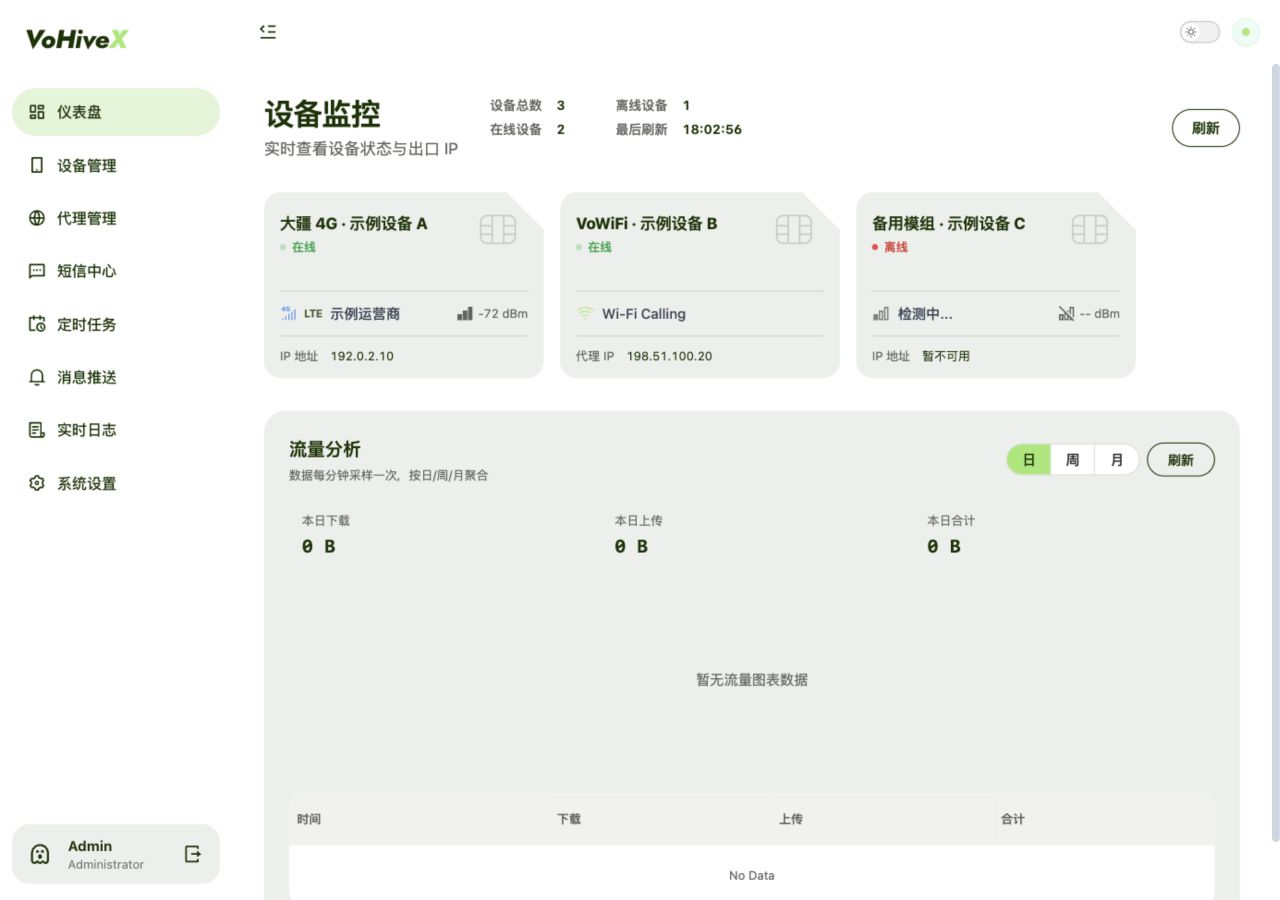
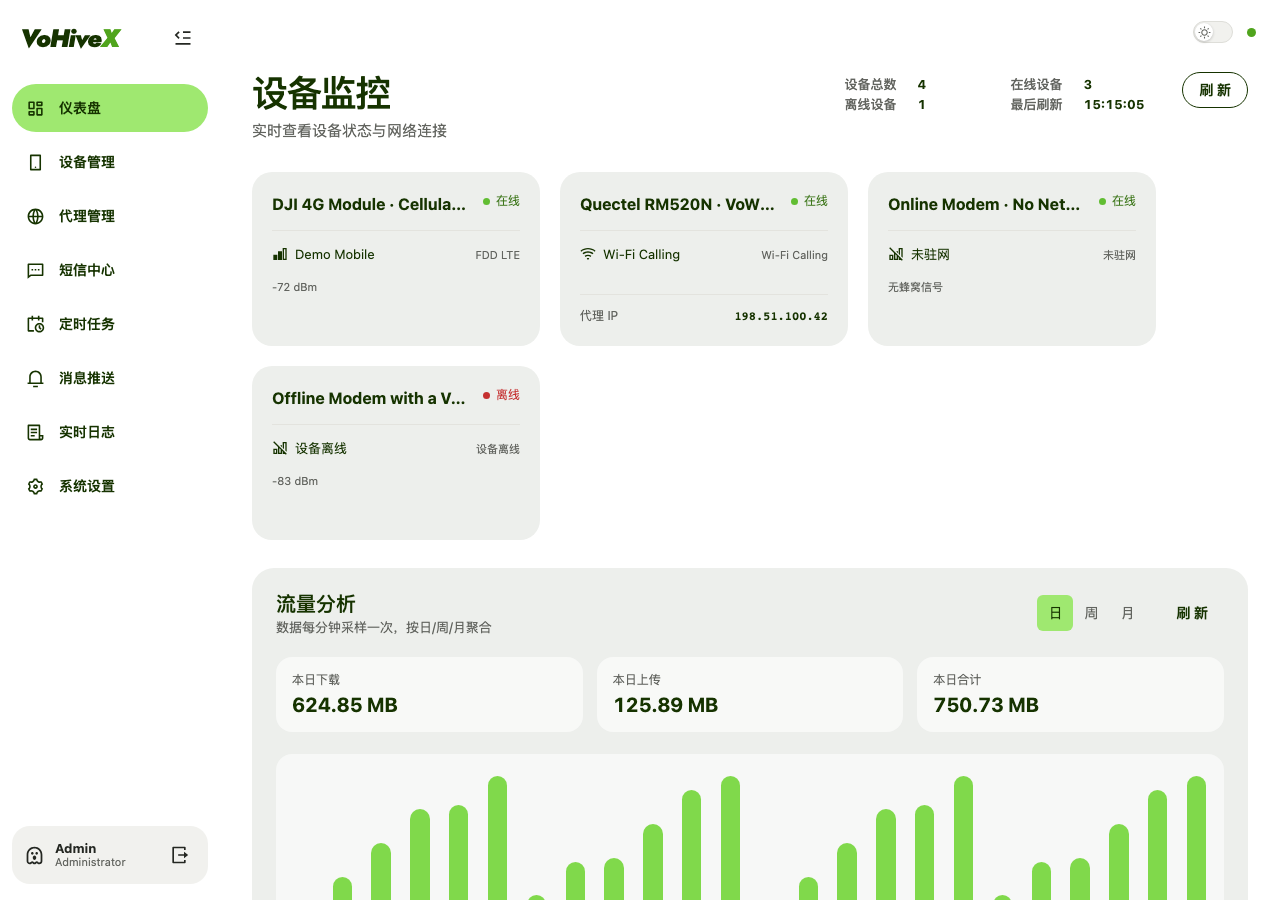
docs: refresh README and demo screenshots [skip ci]

diff --git a/web/mock/demoApi.ts b/web/mock/demoApi.ts
@@ -3,15 +3,15 @@ import type { IncomingMessage, ServerResponse } from 'node:http'
 
 const now = () => Math.floor(Date.now() / 1000)
 const devices = [
-  { id: 'DJI26123', name: 'DJI 4G Module · Cellular Demo', running: true, healthy: true, operator: 'Demo Mobile', network_mode: 'LTE', network_duplex: 'FDD', signal_dbm: -72, vowifi_active: false, vowifi_enabled: false, network_enabled: true, network_connected: true, public_ip: '203.0.113.18', private_ip: '10.10.0.8', private_ipv6: '2001:db8:10::8', interface: 'wwan0', imei: '860000000000001', imsi: '460001234567890', iccid: '8986000000000000001', msisdn: '+86 138 0000 1001', local_phone: '+86 138 0000 1001', active_esim_profile_name: 'Demo Profile', modem: { imei: '860000000000001', imsi: '460001234567890', iccid: '8986000000000000001', firmware: 'Demo 1.0', operator: 'Demo Mobile', network_mode: 'LTE', network_duplex: 'FDD', signal_dbm: -72, signal_rsrp: -98, signal_rsrq: -10, signal_sinr: 18, radio_band: 'B3', radio_channel: 1650, reg_status_text: '已注册', native_spn: 'Demo Mobile', native_mcc: '310', native_mnc: '260' }, vowifi_runtime: { sim_ready: true, access_ready: true, tunnel_ready: false, ims_ready: false, sms_ready: true, dataplane_mode: 'cellular', last_reason: '蜂窝网络已连接', last_error_class: '' } },
-  { id: 'RM520N-DEMO', name: 'Quectel RM520N · VoWiFi Demo', running: true, healthy: true, operator: 'Example Telecom', network_mode: '5G NSA', network_duplex: 'TDD', signal_dbm: -88, vowifi_active: true, vowifi_enabled: true, network_enabled: false, network_connected: false, interface: 'wwan1', imei: '860000000000002', imsi: '460031234567890', iccid: '8986030000000000002', msisdn: '+86 139 0000 1002', local_phone: '+86 139 0000 1002', active_esim_profile_name: 'Travel eSIM', modem: { imei: '860000000000002', imsi: '460031234567890', iccid: '8986030000000000002', firmware: 'Demo 2.0', operator: 'Example Telecom', network_mode: '5G NSA', network_duplex: 'TDD', signal_dbm: -88, signal_rsrp: -108, signal_rsrq: -13, signal_sinr: 9, nr5g_signal_sinr: 12, radio_band: 'n78', radio_channel: 633984, reg_status_text: 'VoWiFi', native_mcc: '440', native_mnc: '10', opl: [{ plmn: '44010', pnn_record: 1 }], pnn: [{ record: 1, full_name: 'Example Telecom' }] }, vowifi_runtime: { sim_ready: true, access_ready: true, tunnel_ready: true, ims_ready: true, sms_ready: true, dataplane_mode: 'vowifi', last_reason: 'IMS 已注册', last_error_class: '' } },
-  { id: 'NO-NETWORK-DEMO', name: 'Online Modem · No Network or Data', running: true, healthy: true, operator: 'Stale Carrier', network_mode: 'LTE', network_duplex: 'FDD', signal_dbm: -999, vowifi_active: false, vowifi_enabled: false, network_connected: false, interface: 'wwan2', imei: '860000000000003', imsi: '460011234567890', iccid: '8986010000000000003', msisdn: '+86 137 0000 1003', modem: { native_spn: 'Example MVNO', native_mcc: '460', native_mnc: '01' } },
+  { id: 'DJI26123', name: 'DJI 4G Module · Cellular Demo', running: true, healthy: true, operator: 'Demo Mobile', network_mode: 'LTE', network_duplex: 'FDD', signal_dbm: -72, vowifi_active: false, vowifi_enabled: false, network_enabled: true, network_connected: true, public_ip: '203.0.113.18', private_ip: '10.10.0.8', private_ipv6: '2001:db8:10::8', interface: 'wwan0', imei: '860000000000001', imsi: '460001234567890', iccid: '8986000000000000001', msisdn: '+1 202-555-0100', local_phone: '+1 202-555-0100', active_esim_profile_name: 'Demo Profile', modem: { imei: '860000000000001', imsi: '460001234567890', iccid: '8986000000000000001', firmware: 'Demo 1.0', operator: 'Demo Mobile', network_mode: 'LTE', network_duplex: 'FDD', signal_dbm: -72, signal_rsrp: -98, signal_rsrq: -10, signal_sinr: 18, radio_band: 'B3', radio_channel: 1650, reg_status_text: '已注册', native_spn: 'Demo Mobile', native_mcc: '310', native_mnc: '260' }, vowifi_runtime: { sim_ready: true, access_ready: true, tunnel_ready: false, ims_ready: false, sms_ready: true, dataplane_mode: 'cellular', last_reason: '蜂窝网络已连接', last_error_class: '' } },
+  { id: 'RM520N-DEMO', name: 'Quectel RM520N · VoWiFi Demo', running: true, healthy: true, operator: 'Example Telecom', network_mode: '5G NSA', network_duplex: 'TDD', signal_dbm: -88, vowifi_active: true, vowifi_enabled: true, network_enabled: false, network_connected: false, interface: 'wwan1', imei: '860000000000002', imsi: '460031234567890', iccid: '8986030000000000002', msisdn: '+1 202-555-0102', local_phone: '+1 202-555-0102', active_esim_profile_name: 'Travel eSIM', modem: { imei: '860000000000002', imsi: '460031234567890', iccid: '8986030000000000002', firmware: 'Demo 2.0', operator: 'Example Telecom', network_mode: '5G NSA', network_duplex: 'TDD', signal_dbm: -88, signal_rsrp: -108, signal_rsrq: -13, signal_sinr: 9, nr5g_signal_sinr: 12, radio_band: 'n78', radio_channel: 633984, reg_status_text: 'VoWiFi', native_mcc: '440', native_mnc: '10', opl: [{ plmn: '44010', pnn_record: 1 }], pnn: [{ record: 1, full_name: 'Example Telecom' }] }, vowifi_runtime: { sim_ready: true, access_ready: true, tunnel_ready: true, ims_ready: true, sms_ready: true, dataplane_mode: 'vowifi', last_reason: 'IMS 已注册', last_error_class: '' } },
+  { id: 'NO-NETWORK-DEMO', name: 'Online Modem · No Network or Data', running: true, healthy: true, operator: 'Stale Carrier', network_mode: 'LTE', network_duplex: 'FDD', signal_dbm: -999, vowifi_active: false, vowifi_enabled: false, network_connected: false, interface: 'wwan2', imei: '860000000000003', imsi: '460011234567890', iccid: '8986010000000000003', msisdn: '+1 202-555-0103', modem: { native_spn: 'Example MVNO', native_mcc: '460', native_mnc: '01' } },
   { id: 'OFFLINE-DEMO', name: 'Offline Modem with a Very Long Demonstration Name', running: false, healthy: false, operator: 'Stale Carrier', network_mode: 'LTE', signal_dbm: -83, vowifi_active: false, vowifi_enabled: false, network_connected: false, public_ip: '198.51.100.199', interface: 'wwan3', imei: '860000000000004', iccid: '8986010000000000004' },
 ]
 const contacts = [
-  { peer: '+86 188 0000 2001', device_id: 'DJI26123', device_name: devices[0].name, imsi: devices[0].imsi, local_phone: devices[0].msisdn, last_content: 'Your scheduled test message was received.', last_timestamp: new Date(Date.now() - 90_000).toISOString(), unread_count: 1 },
-  { peer: '10086', device_id: 'DJI26123', device_name: devices[0].name, imsi: devices[0].imsi, local_phone: devices[0].msisdn, last_content: 'Demo account balance notification', last_timestamp: new Date(Date.now() - 3_600_000).toISOString(), unread_count: 0 },
-  ...Array.from({ length: 10 }, (_, index) => ({ peer: `+86 166 0000 ${String(3000 + index)}`, device_id: 'DJI26123', device_name: devices[0].name, imsi: devices[0].imsi, local_phone: devices[0].msisdn, last_content: `Example conversation ${index + 1}`, last_timestamp: new Date(Date.now() - (index + 2) * 7_200_000).toISOString(), unread_count: index % 3 === 0 ? 1 : 0 })),
+  { peer: '+1 202-555-0110', device_id: 'DJI26123', device_name: devices[0].name, imsi: devices[0].imsi, local_phone: devices[0].msisdn, last_content: 'Your scheduled test message was received.', last_timestamp: new Date(Date.now() - 90_000).toISOString(), unread_count: 1 },
+  { peer: 'Demo Service', device_id: 'DJI26123', device_name: devices[0].name, imsi: devices[0].imsi, local_phone: devices[0].msisdn, last_content: 'Demo account balance notification', last_timestamp: new Date(Date.now() - 3_600_000).toISOString(), unread_count: 0 },
+  ...Array.from({ length: 10 }, (_, index) => ({ peer: `+1 202-555-${String(111 + index).padStart(4, '0')}`, device_id: 'DJI26123', device_name: devices[0].name, imsi: devices[0].imsi, local_phone: devices[0].msisdn, last_content: `Example conversation ${index + 1}`, last_timestamp: new Date(Date.now() - (index + 2) * 7_200_000).toISOString(), unread_count: index % 3 === 0 ? 1 : 0 })),
 ]
 const sms = [
   { id: 1, peer: contacts[0].peer, content: 'This is a fictional message used only for local UI testing.', timestamp: new Date(Date.now() - 600_000).toISOString(), type: 1, status: 0 },
@@ -19,8 +19,8 @@ const sms = [
   { id: 3, peer: contacts[0].peer, content: 'Received, thank you.', timestamp: new Date(Date.now() - 90_000).toISOString(), type: 1, status: 0 },
 ]
 const schedules = [
-  { id: 1, version: 2, name: 'Daily demo reminder', device_id: 'DJI26123', phone: '+86 188 0000 2001', message: 'This is a fictional scheduled SMS.', mode: 'interval', first_run: now() - 86400, interval_seconds: 86400, state: 'active', next_run: now() + 3600, last_run: now() - 82800, run_count: 3, last_result: 'Submitted' },
-  { id: 2, version: 1, name: 'One-time test', device_id: 'RM520N-DEMO', phone: '+86 166 0000 3001', message: 'Paused sample task.', mode: 'once', first_run: now() + 7200, interval_seconds: 0, state: 'paused', next_run: now() + 7200, run_count: 0, last_result: 'Waiting' },
+  { id: 1, version: 2, name: 'Daily demo reminder', device_id: 'DJI26123', phone: '+1 202-555-0110', message: 'This is a fictional scheduled SMS.', mode: 'interval', first_run: now() - 86400, interval_seconds: 86400, state: 'active', next_run: now() + 3600, last_run: now() - 82800, run_count: 3, last_result: 'Submitted' },
+  { id: 2, version: 1, name: 'One-time test', device_id: 'RM520N-DEMO', phone: '+1 202-555-0111', message: 'Paused sample task.', mode: 'once', first_run: now() + 7200, interval_seconds: 0, state: 'paused', next_run: now() + 7200, run_count: 0, last_result: 'Waiting' },
 ]
 const sources = [{ id: 'builtin', name: '订阅节点 · 内置代理', kind: 'built_in', count: 1, updated: now() - 300 }, { id: 'demo-sub', name: 'Demo Subscription', kind: 'subscription', count: 4, updated: now() - 1800 }]
 const nodes = [{ id: 'builtin-socks', source_id: 'builtin', name: 'Socks5 · 127.0.0.1:17890', type: 'socks5' }, ...['Tokyo Demo', 'Singapore Demo', 'Frankfurt Demo', 'Los Angeles Demo'].map((name, index) => ({ id: `node-${index}`, source_id: 'demo-sub', name, type: index % 2 ? 'vmess' : 'trojan' }))]
@@ -68,7 +68,7 @@ export function demoApi(): Plugin {
       if (/^\/api\/devices\/[^/]+\/esim\/notifications$/.test(path)) return json(response, 200, { items: [{ id: 'demo-note', type: 'Profile installation', message: 'A fictional notification used only for the local demonstration.' }] })
       if (/^\/api\/devices\/[^/]+\/esim\/profiles\/[^/]+$/.test(path) && method === 'PATCH') { const data = await body(request); demoEsimProfileName = String(data.name || demoEsimProfileName); return json(response, 200, { ok: true }) }
       if (/^\/api\/devices\/[^/]+\/esim\/profiles\/[^/]+$/.test(path) && method === 'DELETE') { demoEsimProfileDeleted = true; return json(response, 200, { ok: true }) }
-      if (/^\/api\/devices\/[^/]+\/esim$/.test(path)) return json(response, 200, { chip_info: { sku_name: 'Demo eUICC', firmware: '1.0.0', eids: [{ eid: '89049032000000000000000000000001', aid: 'A0000005591010FFFFFFFF8900000100', manufacturer: 'Demo Semiconductor', free_nvram: '1.8 MB', free_nvram_bytes: 1_887_436 }] }, profiles: [{ name: 'Demo eUICC', eid: '89049032000000000000000000000001', aid_hex: 'A0000005591010FFFFFFFF8900000100', profiles: demoEsimProfileDeleted ? [] : [{ iccid: '8986000000000001001', name: demoEsimProfileName, phone_number: '+86 138 0000 1001', provider_name: 'Example Mobile', state: 1, state_text: '已启用' }] }] })
+      if (/^\/api\/devices\/[^/]+\/esim$/.test(path)) return json(response, 200, { chip_info: { sku_name: 'Demo eUICC', firmware: '1.0.0', eids: [{ eid: '89049032000000000000000000000001', aid: 'A0000005591010FFFFFFFF8900000100', manufacturer: 'Demo Semiconductor', free_nvram: '1.8 MB', free_nvram_bytes: 1_887_436 }] }, profiles: [{ name: 'Demo eUICC', eid: '89049032000000000000000000000001', aid_hex: 'A0000005591010FFFFFFFF8900000100', profiles: demoEsimProfileDeleted ? [] : [{ iccid: '8986000000000001001', name: demoEsimProfileName, phone_number: '+1 202-555-0100', provider_name: 'Example Mobile', state: 1, state_text: '已启用' }] }] })
       if (/^\/api\/cards\/.+\/policy$/.test(path)) return json(response, 200, { source: 'local', ip_version: 'v4v6', apn: 'internet', network_enabled: true, vowifi_enabled: true, airplane_enabled: false })
       if (path === '/api/managed-proxy' && method === 'GET') return json(response, 200, managed)
       if (/^\/api\/managed-proxy\//.test(path) && path !== '/api/managed-proxy/public-ip') { const data = await body(request); if (path.endsWith('/pause')) managed = { ...managed, enabled: false, running: false, version: managed.version + 1 }; if (path.endsWith('/select')) managed = { ...managed, enabled: true, running: true, selected: data.node_id || managed.selected, version: managed.version + 1 }; if (path.endsWith('/test')) return json(response, 200, { delay_ms: 42 + Number(String(data.node_id || '').replace(/\D/g, '') || 0) * 17 }); return json(response, 200, managed) }

diff --git a/README.md b/README.md
@@ -1,74 +1,80 @@
 ![VoHiveX personal modem management and test platform](docs/images/vohivex-banner.png)
 
+<p align="center">
+  <a href="https://github.com/iniwex5/vohive">VoHive</a> ·
+  <a href="https://go.dev/">Go</a> ·
+  <a href="https://github.com/MetaCubeX/mihomo">Mihomo</a> ·
+  <a href="https://github.com/vuejs/core">Vue 3</a> ·
+  <a href="https://github.com/vitejs/vite">Vite</a> ·
+  <a href="https://github.com/vuejs/pinia">Pinia</a> ·
+  <a href="https://github.com/antdv-next/antdv-next">Antdv Next</a> ·
+  <a href="https://github.com/Remix-Design/RemixIcon">Remix Icon</a>
+</p>
+
 # VoHiveX
 
-**Original author:** [iniwex5](https://github.com/iniwex5) · Original project: [VoHive](https://github.com/iniwex5/vohive)
+**Original project:** [VoHive](https://github.com/iniwex5/vohive) by [iniwex5](https://github.com/iniwex5)<br>
+**VoHiveX author:** [NXN-MAX](https://github.com/NXN-MAX) · **Version:** 2.1.4
 
-**VoHiveX author:** [NXN-MAX](https://github.com/NXN-MAX) · **Version: 2.1.4**
+VoHiveX is a personal modem management and testing platform derived from VoHive. It adds DJI 4G module compatibility, scheduled SMS, Mihomo subscription and node management, eSIM activation-code recognition, SMS archives, notifications, and a responsive Vue interface backed by a Go gateway.
 
-VoHiveX extends VoHive with DJI first and second generation 4G modem compatibility, scheduled SMS, a built-in Mihomo proxy manager, SMS archive tools, a redesigned responsive interface, and a Go management gateway. The existing modem core, configuration, and persistent data formats remain compatible.
+## Highlights
 
-## Acceptable use
+### DJI 4G module compatibility
 
-> [!CAUTION]
-> **Commercial use is strictly prohibited. VoHiveX is for personal research, learning, and testing on devices that you own.**
->
-> Use only personal phone numbers that you legally control. Do not use VoHiveX for verification-code collection, number rental, unsolicited or bulk messaging, fraud, unlawful proxy services, or any activity that violates local law or carrier terms.
-
-The original project and third-party components keep their respective licenses. VoHiveX additions use the [Personal Non-Commercial License](LICENSE), which is not an OSI-approved open-source license.
-
-## Main features
-
-### DJI modem compatibility
-
-- First generation DJI 4G modules using USB ID `2ca3:4006` are matched at runtime without reflashing or changing the USB ID.
-- The existing host `option` and `qmi_wwan` drivers provide the AT serial and QMI interfaces.
-- Second generation devices use the standard QMI or MBIM detection path. Hardware and firmware combinations not tested by this project may still require an additional mapping.
-- Driver adaptation runs inside the VoHiveX container. It does not replace the host kernel or install a host driver package.
+- Supports DJI first-generation 4G modules that expose USB ID `2ca3:4006`.
+- Keeps the original DJI USB ID. Reflashing, rewriting the USB ID, and permanent host-driver modification are not required.
+- Matches the device to the existing Linux `option` and `qmi_wwan` drivers at runtime, exposing AT serial and QMI interfaces to the container.
+- Supports second-generation modules through compatible QMI or MBIM paths when provided by the module firmware and host kernel.
 
 ### Scheduled SMS
 
-- Send once at a chosen date and time, or repeat at a day, hour, minute, and second interval.
-- Create, edit, delete, start, and pause tasks, and review execution history and the next run time.
-- Notify enabled Telegram, Feishu, QQ, Bark, Email, Pushplus, and Webhook channels after execution and after a delivery result becomes available.
-- Missed tasks are skipped after downtime. Failed or ambiguous sends are paused and are never retried automatically.
+- Send once at a specified date and time or repeat by day, hour, minute, and second intervals.
+- Create, edit, delete, start, pause, and inspect tasks, including the next run time and execution history.
+- Newly created or edited tasks remain paused until explicitly started. Missed runs are skipped instead of being sent in a burst.
+- Execution and delivery results can be forwarded through enabled Telegram, Feishu, QQ, Bark, Email, Pushplus, and Webhook channels.
 
-### Mihomo proxy management
+### Subscription and node management
 
-- Manage subscriptions and nodes, VoWiFi roaming proxies, and local outbound proxies from one module.
-- Import multiple HTTPS subscriptions, Clash YAML, and common share links; select nodes and test HTTPS latency.
-- QR images are decoded in the browser and are discarded without upload or caching.
-- The fixed `Subscription node · Built-in proxy` entry uses SOCKS5 at `127.0.0.1:17890`.
-- Disabling a proxy makes associated country rules fall back to direct access.
+- Runs Mihomo inside the VoHiveX container and exposes a fixed built-in SOCKS5 endpoint at `127.0.0.1:17890`.
+- Supports multiple HTTPS subscriptions, Clash YAML, and common proxy share links.
+- Provides collapsible subscription lists, node selection, latency testing, VoWiFi country rules, and local outbound proxy instances.
+- Proxy QR images are decoded in the browser and discarded immediately after recognition.
 
-### Interface and administration
+### eSIM activation-code recognition
 
-- Responsive light and black dark themes, Remix Icon controls, SIM-card device tiles, and IPv4/IPv6 display.
-- Conversation-based SMS center with import, export, selection, bulk state changes, and archive deduplication.
-- eSIM activation-code parsing from pasted text, clipboard images, or JPG, JPEG, PNG, and WebP files. Profile installation starts only after the user presses the download button.
-- Username and password settings, local Swagger UI at `/api/docs`, system/build/driver/proxy information, `/healthz`, and Prometheus-compatible `/metrics`.
+- Recognizes activation codes from QR images, clipboard images, uploaded JPG/JPEG/PNG/WebP files, or a directly entered `LPA:1` link.
+- Parses the SM-DP+ address, Matching ID, and optional confirmation code into the download form.
+- Recognition only fills the form. No profile is written until the user reviews the values and presses **Start download**.
+- Includes eUICC information, installed profiles, remarks, switching, and deletion where supported by the module and card.
 
-## Go runtime
+### Device and message management
 
-The management gateway, reverse proxy, scheduler, SMS archive, account settings, Mihomo lifecycle, health checks, and metrics are implemented in Go. The container no longer installs Python or PyYAML. Existing `config.yaml`, scheduler SQLite data, imported SMS archives, proxy subscriptions, and web assets are reused during an upgrade.
+- Provides device discovery, radio status, AT and USSD terminals, SIM/eSIM information, card policies, VoWiFi status, and live logs.
+- Includes a three-column SMS center with conversation search, unread state, delivery status, multi-select actions, and CSV/TXT/HTML/XML import and export.
+- Offers a local Swagger UI at `/api/docs`, health checks at `/healthz`, and Prometheus-compatible metrics at `/metrics`.
 
-The bundled legacy modem core was already a Go executable but its upstream source is not present in this repository. For that reason, the full container remains available on the three architectures for which a compatible modem core exists.
+## Supported architectures and modem paths
 
-| Deliverable | amd64 | arm64 | aarch64 | armv7 | 386 |
-| --- | --- | --- | --- | --- | --- |
-| Full Docker image | Yes | Yes | Alias of arm64 | Yes | No |
-| Go gateway binary | Yes | Yes | Alias of arm64 | Yes | Yes |
+| Component | Supported targets |
+| --- | --- |
+| Full Docker runtime | Linux `amd64`, `arm64`/`aarch64`, and `armv7` |
+| Standalone Go gateway | Linux `amd64`, `arm64`/`aarch64`, `armv7`, and `386` |
+| Modem transport | AT serial with Qualcomm-compatible QMI or MBIM networking |
+| Host kernel interfaces | `option`, `qmi_wwan`, USB serial, QMI control device, or a compatible MBIM path |
+| DJI first generation | USB ID `2ca3:4006`, used without changing the USB ID |
+| DJI second generation | Compatible QMI/MBIM layouts; available functions depend on firmware and USB composition |
 
-The 386 gateway must connect to a separately supplied compatible modem core on `127.0.0.1:7576`. This repository does not claim 386 modem-core support.
+The complete container is published only for architectures that have a compatible bundled modem core. The `386` download contains the Go gateway and must connect to a separately supplied compatible modem core.
 
 ## Docker installation
 
-Images:
+Images are published to:
 
-- `ghcr.io/nxn-max/vohivex:2.1.4`
 - `maxnxxn/vohivex:2.1.4`
+- `ghcr.io/nxn-max/vohivex:2.1.4`
 
-The multi-platform tag selects the host architecture automatically. Architecture tags are `2.1.4-amd64`, `2.1.4-arm64`, `2.1.4-aarch64`, and `2.1.4-armv7`.
+Both repositories provide multi-architecture `2.1.4`, `v2.1.4`, and `latest` tags. Docker selects the correct image for the host automatically.
 
 Defaults:
 
@@ -76,127 +82,46 @@ Defaults:
 - Username: `admin`
 - Password: `admin`
 
-Default credentials are created only when no configuration exists. Upgrades keep the current username, password, devices, messages, tasks, and proxy data. Change the default password after the first login.
-
-1. Download `docker-compose.yml` and `.env.example` into one directory.
-2. Copy `.env.example` to `.env`. No kernel version setting is required.
-3. Set `VOHIVE_BIND_IP` to the NAS LAN address when other LAN devices need access. The example defaults to `127.0.0.1`.
-4. Start the service:
-
 ```sh
+cp .env.example .env
 docker compose pull
 docker compose up -d
 ```
 
-Open `http://<host>:7575`. Persistent state is stored in `config`, `data`, `logs`, and `driver-state`. Back up those directories, `.env`, and the Compose file before an update.
+Open `http://<host>:7575`. Existing `config`, `data`, `logs`, and `driver-state` directories remain persistent during updates. Change the default password after the first login.
 
-The container detects the running host kernel automatically. It reuses loaded modules or loads `option`, `qmi_wwan`, and their dependencies from `/lib/modules/<running-kernel>`. Missing modules stop driver initialization with an error; the container does not install a kernel package or replace the host kernel.
+The container detects the running host kernel and reuses its existing modem drivers. It does not install kernel packages or replace the host kernel.
 
-## Binary downloads
+## Screenshots
 
-GitHub Releases provides the following statically linked Linux gateway binaries plus `SHA256SUMS`:
+Every screenshot below is generated from the local demo API. Device identifiers, IP addresses, phone numbers, messages, subscriptions, nodes, eSIM data, and tasks are fictional examples.
 
-- `vohivex-amd64`
-- `vohivex-arm64`
-- `vohivex-aarch64`
-- `vohivex-armv7`
-- `vohivex-386`
+| Dashboard | Subscription and nodes |
+| --- | --- |
+| ![VoHiveX dashboard using fictional modem data](docs/images/dashboard.png) | ![VoHiveX proxy subscriptions using fictional nodes](docs/images/proxy.png) |
 
-Verify and install a binary, using the file for your architecture:
+| eSIM QR or link recognition | SMS center |
+| --- | --- |
+| ![VoHiveX eSIM activation-code recognition using example data](docs/images/esim.png) | ![VoHiveX SMS center using fictional conversations](docs/images/sms.png) |
 
-```sh
-sha256sum -c SHA256SUMS --ignore-missing
-chmod 0755 vohivex-amd64
-./vohivex-amd64 -version
-install -m 0755 vohivex-amd64 /usr/local/bin/vohivex-gateway
-```
+### Scheduled tasks
 
-The standalone gateway expects:
+![VoHiveX scheduled tasks using fictional recipients and content](docs/images/tasks.png)
 
-- a compatible VoHive modem core at `127.0.0.1:7576`;
-- a writable configuration file and data directory;
-- the built frontend assets;
-- a Mihomo binary when managed proxy features are used.
+## Releases and documentation
 
-Example startup:
-
-```sh
-export CONFIG_PATH=/etc/vohivex/config.yaml
-export VOHIVEX_DATA=/var/lib/vohivex
-export SCHEDULER_ASSETS=/opt/vohivex/assets
-export MIHOMO_BINARY=/opt/vohivex/mihomo
-
-vohivex-gateway -prepare-config
-vohivex-gateway
-```
-
-The gateway listens on `0.0.0.0:7575` by default and keeps the modem core on the loopback-only port `7576`. Set `SCHEDULER_PORT`, `VOHIVE_UPSTREAM_HOST`, or `VOHIVE_UPSTREAM_PORT` only when the surrounding service layout differs.
-
-### Binary update
-
-1. Back up `config.yaml` and the complete data directory.
-2. Download the new binary and `SHA256SUMS` from the same release.
-3. Verify the checksum and version.
-4. Stop the current gateway.
-5. Atomically replace the executable and restart the service.
-6. Confirm `/healthz`, the web login, the device state, scheduled tasks, SMS history, and the managed proxy state.
-
-Do not downgrade after a release creates a newer database schema. The gateway rejects a database that is newer than the schema it understands instead of silently damaging it.
-
-## Frontend development
-
-The management interface is a standard Vue 3 single-page application in `web/`, built with Vite, Pinia, Vue Router, TypeScript, and Antdv Next. Element Plus is no longer part of the runtime frontend.
-
-```sh
-npm ci --prefix web
-npm run typecheck --prefix web
-npm run dev --prefix web
-```
-
-The development server listens on `http://127.0.0.1:18765` and proxies `/api` to `http://127.0.0.1:7575`. A production asset bundle is assembled with `python3 app/scheduler/build-assets.py`.
-
-## Build and release
-
-Build the gateway locally with Go 1.24 or newer:
-
-```sh
-go test ./...
-CGO_ENABLED=0 go build -trimpath -o vohivex-gateway ./cmd/vohivex-gateway
-```
-
-Build a local Docker image after preparing the pinned modem-core and Mihomo inputs:
-
-```sh
-python3 app/prepare-build.py
-docker build -t vohivex:2.1.4 .
-```
-
-GitHub Actions tests the Go code, cross-compiles five gateway downloads, builds and smoke-tests the amd64, arm64, and armv7 images, publishes the multi-platform GHCR and Docker Hub tags, generates SHA-256 checksums, and creates a GitHub Release for a matching `v2.1.4` tag.
-
-Additional documentation:
-
+- [GitHub Releases](https://github.com/NXN-MAX/VoHiveX/releases)
+- [Docker Hub](https://hub.docker.com/r/maxnxxn/vohivex)
 - [Driver and deployment notes](app/README.md)
 - [Scheduled SMS notes](app/scheduler/README.md)
 - [Mihomo and subscription notes](app/proxy/README.md)
 - [Third-party notices](app/proxy/THIRD-PARTY.md)
-- [Brand font license](app/branding/README.md)
 
-## Screenshots
+## Responsible use and license
 
-All screenshots use fictional devices, nodes, phone numbers, messages, and tasks. They contain no real subscription URLs, credentials, or personal communications.
+> [!CAUTION]
+> **Commercial use is strictly prohibited. VoHiveX is intended only for personal research, learning, and testing on devices and phone numbers that you legally control.**
 
-### Dashboard
+Do not use VoHiveX for verification-code collection, number rental, unsolicited or bulk messaging, fraud, unlawful proxy services, or any activity that violates local law or carrier terms.
 
-![VoHiveX dashboard with a fictional SIM device](docs/images/dashboard.png)
-
-### Proxy management
-
-![VoHiveX proxy management with fictional nodes](docs/images/proxy.png)
-
-### SMS center
-
-![VoHiveX SMS center with a fictional conversation](docs/images/sms.png)
-
-### Scheduled tasks
-
-![VoHiveX scheduled tasks with a paused fictional task](docs/images/tasks.png)
+The original project and third-party components retain their respective licenses. VoHiveX additions use the [Personal Non-Commercial License](LICENSE), which is not an OSI-approved open-source license.
